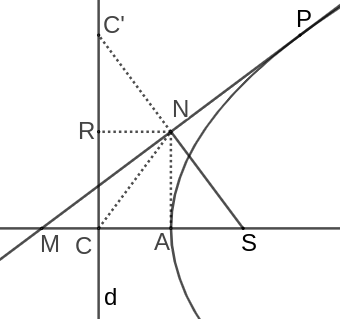
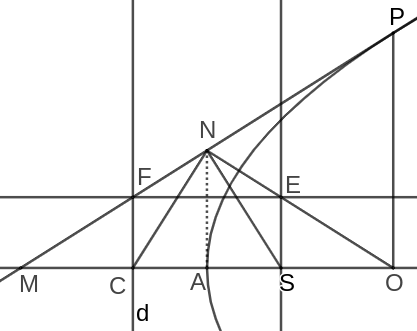
this is automated

diff --git a/docs/blog/lemma14/lemma14.html b/docs/blog/lemma14/lemma14.html
@@ -303,17 +303,15 @@ vertex.</em></li>
 vertex.</em></p>
 
 <p>First and foremost, drop a perpendicular from $N$ to the axis of symmetry and
-call it $A$. I will now show that $A$ is the same thing as the vertex. Let $C$
-be the intersection of the axis of symmetry and the directrix. Then drop a
+call it $A$. Draw, through $S$, a perpendicular to the axis and mark its
 <img src="lemma14-3.png" style="max-width: 50%" align="left"></img>
-perpendicular from $N$ to the directrix at $R$ and reflect $C$ over $R$ onto
-$C'$.  Notice that $NA$ is parallel to the directrix and that $NR$ is parallel
-to the axis of symmetry. As such $\angle NSA = \angle C'NR$ and $NA = RC = C'R$.
-Therefore $\triangle NSA \cong \triangle C'NR$ which is in turn congruent to
-$\triangle CNR$ because they are both right angled and that $C'R = CR$.
-And since $\triangle NCR \cong \triangle NCA$, then $\triangle NCA$ is congruent
-to $\triangle NSA$. So we can conclude that $CA = AS$. Meaning that $A$ is the
-midpoint of $C$ and $S$, making it the directrix. Q.E.D.</p>
+intersection with $ON$ as $E$. From $E$ drop a perpendicular onto the directrix
+at $F$. Notice that since $EF$ is parallel to $MO$, then $\triangle EFN$ is
+similar to $\triangle MNO$. As such we know that it is also isosceles and that
+it is perpendicular to $NA$. Therefore $NA$ bisects $FE$, and since $FE = CS$,
+then $NA$ also bisects $NA$. Meaning that $A$ is the midpoint of the focus and
+the intersection of the axis of symmetry and the directrix; making it the
+vertex.</p>
 
 <p>Now we can finally tick off the last goal.</p>
 

diff --git a/docs/blog/lemma14/lemma14.md b/docs/blog/lemma14/lemma14.md
@@ -231,17 +231,15 @@ Well we have nothing better to do so might as well try to finish the last goal.
 vertex.*
 
 First and foremost, drop a perpendicular from $N$ to the axis of symmetry and
-call it $A$. I will now show that $A$ is the same thing as the vertex. Let $C$
-be the intersection of the axis of symmetry and the directrix. Then drop a
+call it $A$. Draw, through $S$, a perpendicular to the axis and mark its 
 %{(align-img "lemma14-3.png" "left")}%
-perpendicular from $N$ to the directrix at $R$ and reflect $C$ over $R$ onto
-$C'$.  Notice that $NA$ is parallel to the directrix and that $NR$ is parallel
-to the axis of symmetry. As such $\angle NSA = \angle C'NR$ and $NA = RC = C'R$.
-Therefore $\triangle NSA \cong \triangle C'NR$ which is in turn congruent to
-$\triangle CNR$ because they are both right angled and that $C'R = CR$. 
-And since $\triangle NCR \cong \triangle NCA$, then $\triangle NCA$ is congruent
-to $\triangle NSA$. So we can conclude that $CA = AS$. Meaning that $A$ is the
-midpoint of $C$ and $S$, making it the directrix. Q.E.D.
+intersection with $ON$ as $E$. From $E$ drop a perpendicular onto the directrix
+at $F$. Notice that since $EF$ is parallel to $MO$, then $\triangle EFN$ is
+similar to $\triangle MNO$. As such we know that it is also isosceles and that
+it is perpendicular to $NA$. Therefore $NA$ bisects $FE$, and since $FE = CS$,
+then $NA$ also bisects $NA$. Meaning that $A$ is the midpoint of the focus and
+the intersection of the axis of symmetry and the directrix; making it the 
+vertex.
 
 Now we can finally tick off the last goal.
 
